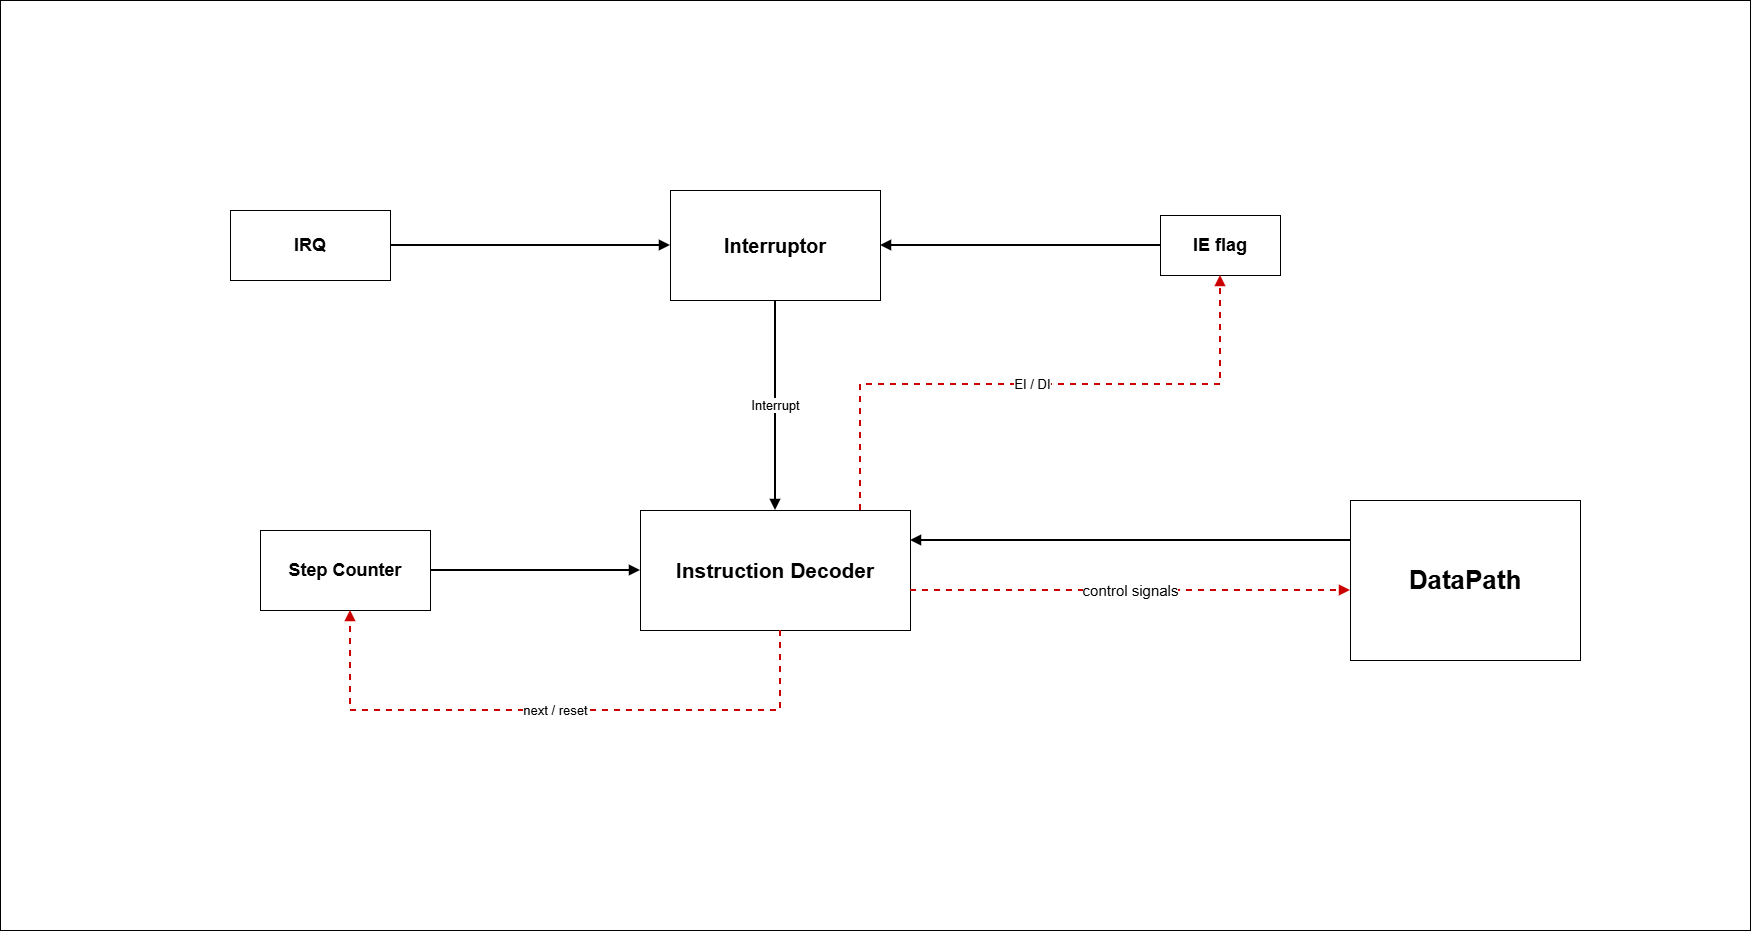
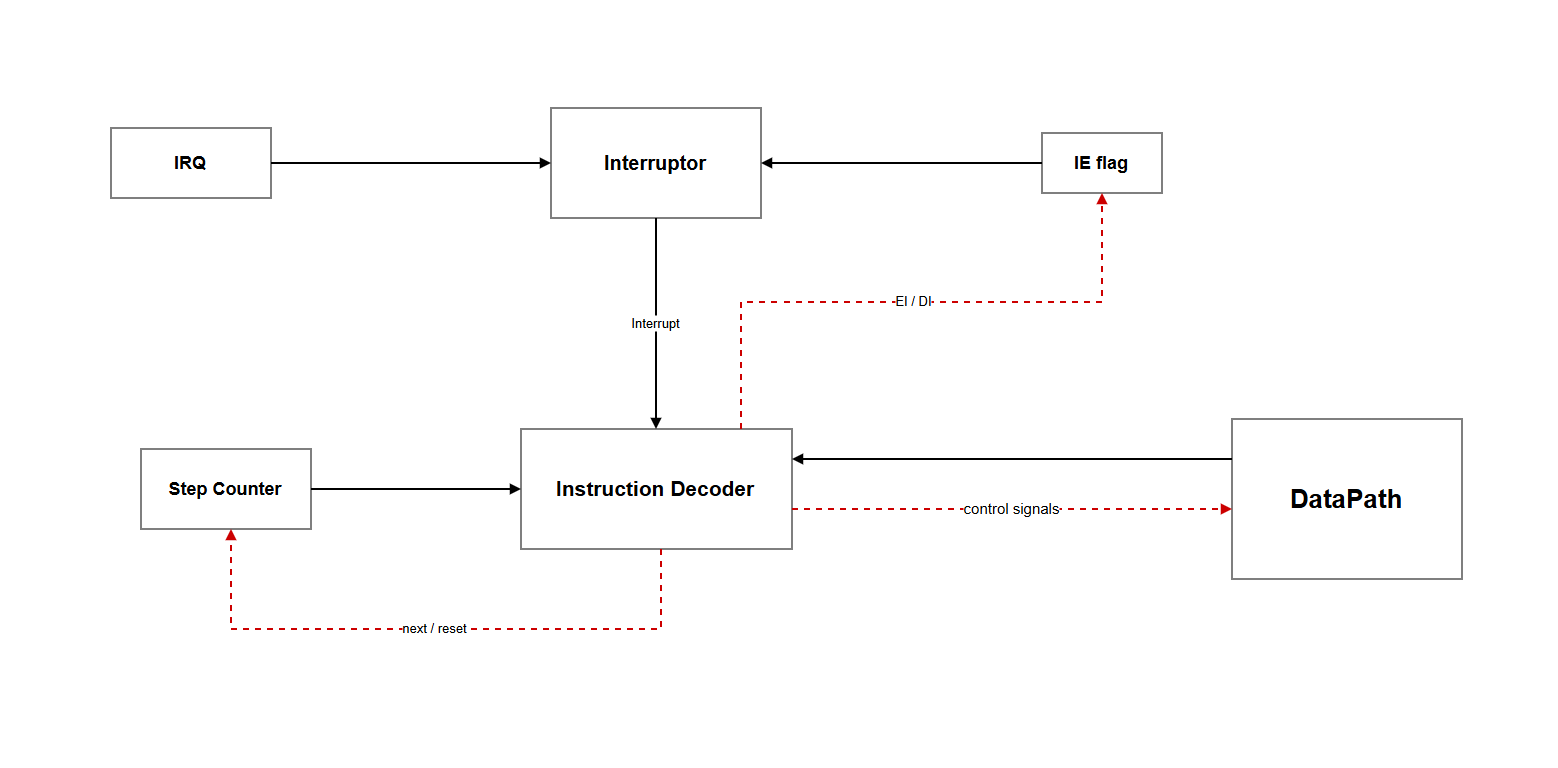
fix: make the DataPath schema more beautiful

diff --git a/README.md b/README.md
@@ -379,12 +379,12 @@ end_label:
 
 ### DataPath
 
-![DataPath](static/DataPathWithBackground.png)
+![DataPath](static/DataPath.png)
 
 
 ### ControlUnit
 
-![ControlUnit](static/ControlUnitWithBackground.png)
+![ControlUnit](static/ControlUnit.png)
 
 
 **Один такт симуляции (`single_tick`):**
